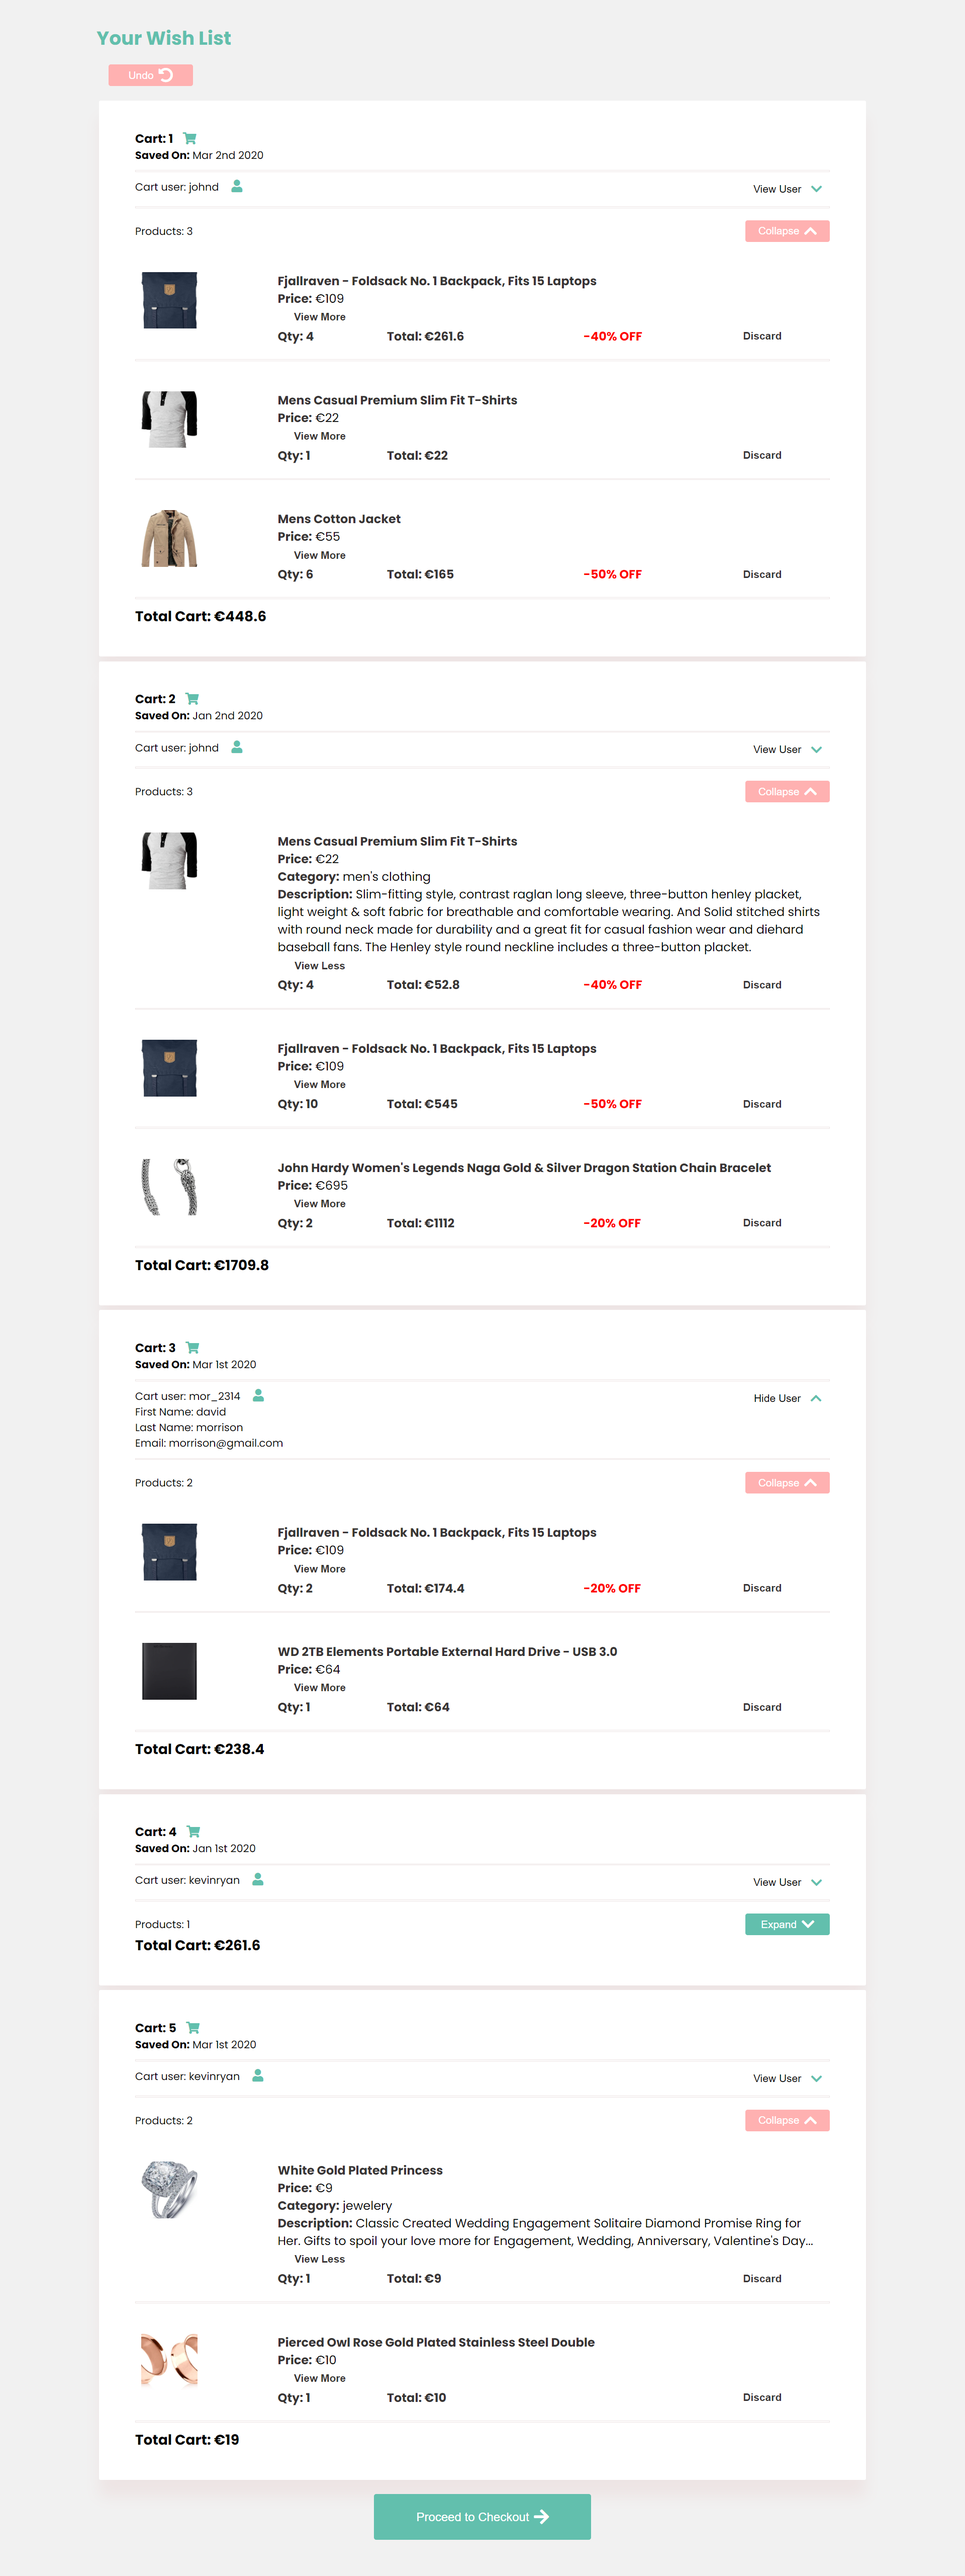
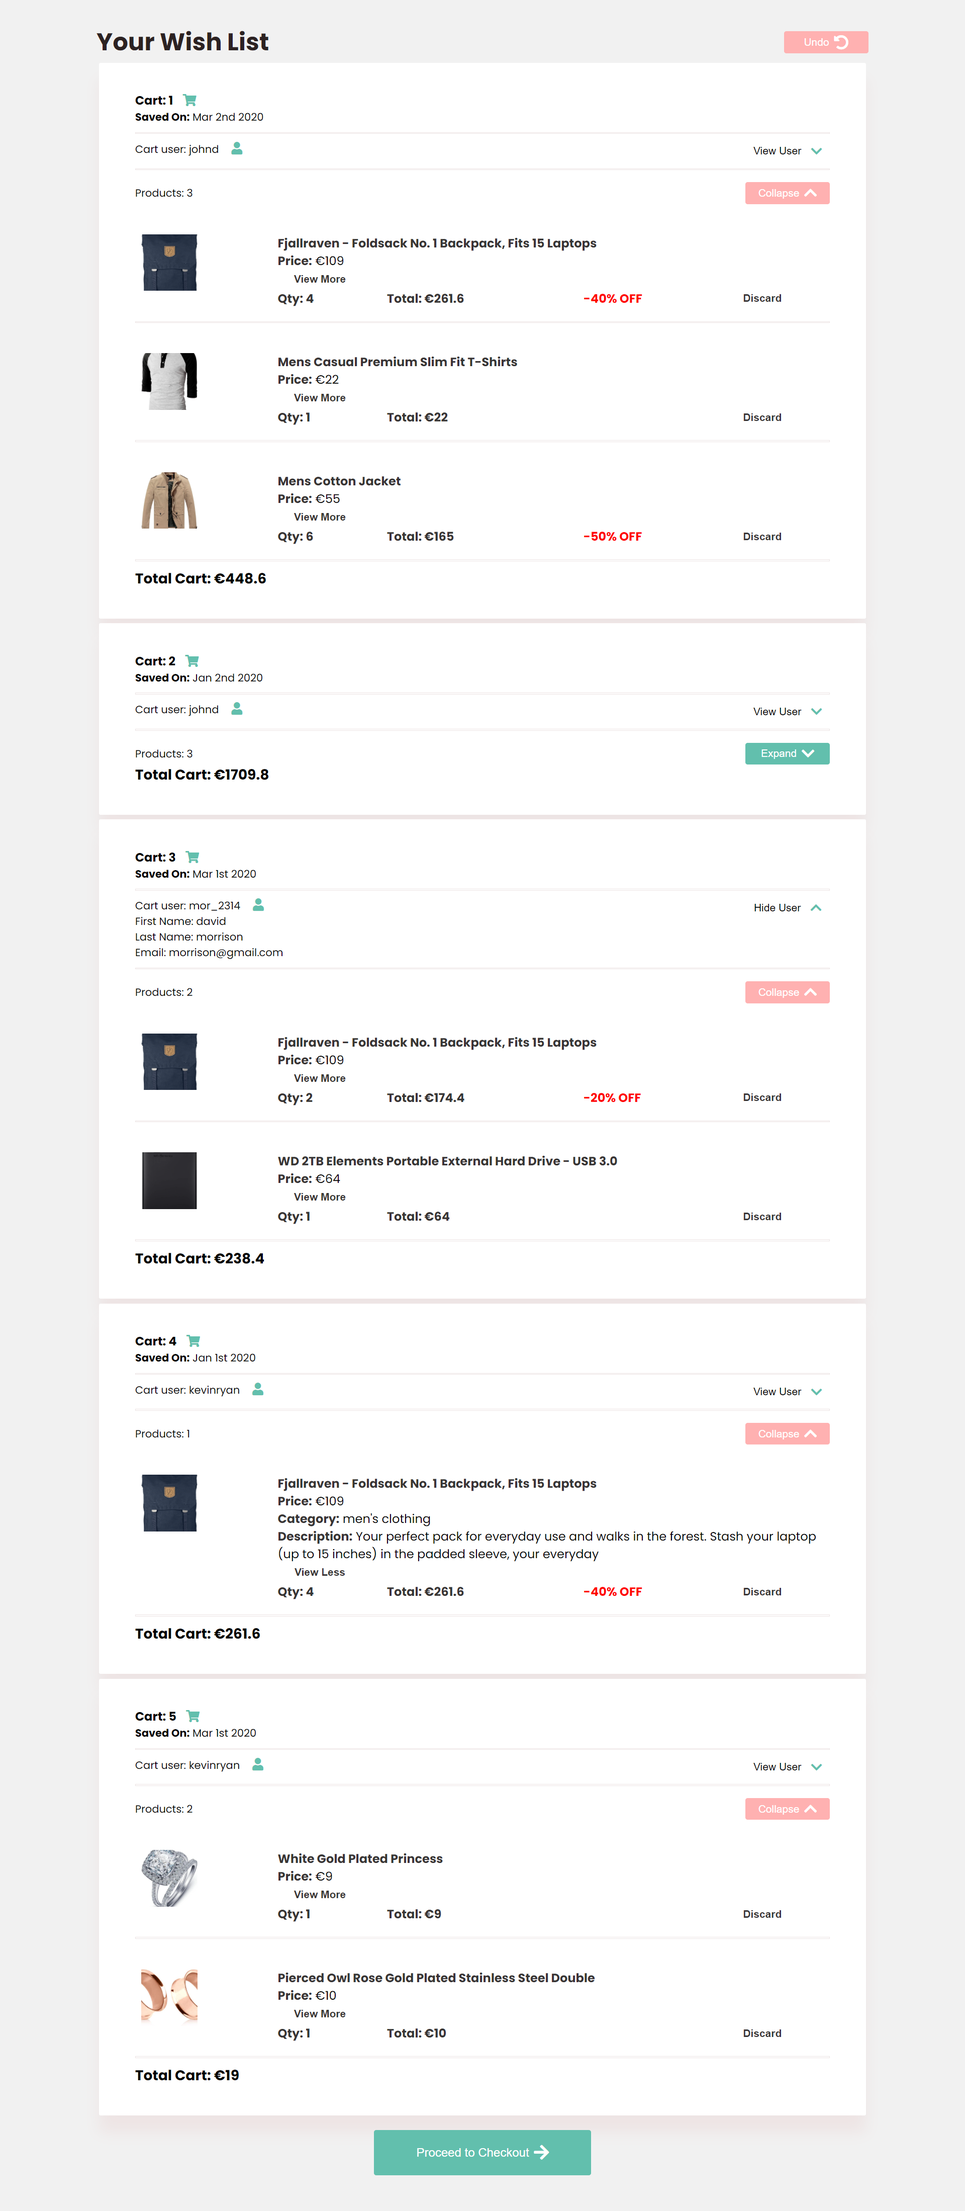
refactor: updated wishlist header

diff --git a/src/pages/WishList/index.tsx b/src/pages/WishList/index.tsx
@@ -19,16 +19,17 @@ export default function WishList() {
   }
   return (
     <div className="wish-list">
-      <h2>Your Wish List</h2>
-      <Button
-        backgroundColor="secondary"
-        size="sm"
-        text="Undo"
-        withIcon
-        withMargin
-        icon={iconsLocale.undoAll.iconClass}
-        onClickRes={undoOnClick}
-      />
+      <div className="wish-list__header">
+        <h1>Your Wish List</h1>
+        <Button
+          backgroundColor="secondary"
+          size="sm"
+          text="Undo"
+          withIcon
+          icon={iconsLocale.undoAll.iconClass}
+          onClickRes={undoOnClick}
+        />
+      </div>
       <CartList cartData={cartData} />
       <div className="wish-list__checkout">
         <NavLink to="/checkout">

diff --git a/src/pages/WishList/style.scss b/src/pages/WishList/style.scss
@@ -1,11 +1,14 @@
 .wish-list {
     padding: 2rem 8rem;
     background-color: #F1F1F1;
-    h2 {
-        color: var(--primary);
-        text-align: center;
-        font-size: var(--large-font);
+    &__header {
+        display: flex;
+        justify-content: space-between;
+        align-items: center;
+    }
+    h1 {
         text-align: left;
+        color: var(--color-text);
     }
     &__checkout {
         display: flex;

diff --git a/src/App.css b/src/App.css
@@ -26,10 +26,10 @@ body {
   --primary: #62BFAD;
   --primary-dark: #459181;
   --primary-light: #85e4d1;
-
   --secondary: #FFB1B1;
   --secondary-dark: #e08383;
   --secondary-light: #f5c7c7;
+  --color-text:#2c2222;
 
   /* fonts */
   --small-font: 14px;

diff --git a/src/pages/Checkout/style.scss b/src/pages/Checkout/style.scss
@@ -1,6 +1,9 @@
 .checkout {
     padding: 2rem 8rem;
     background-color: #F1F1F1;
+    h1 {
+        color: var(--color-text);
+    }
     &__approved {
         h4 {
             color: var(--primary);
